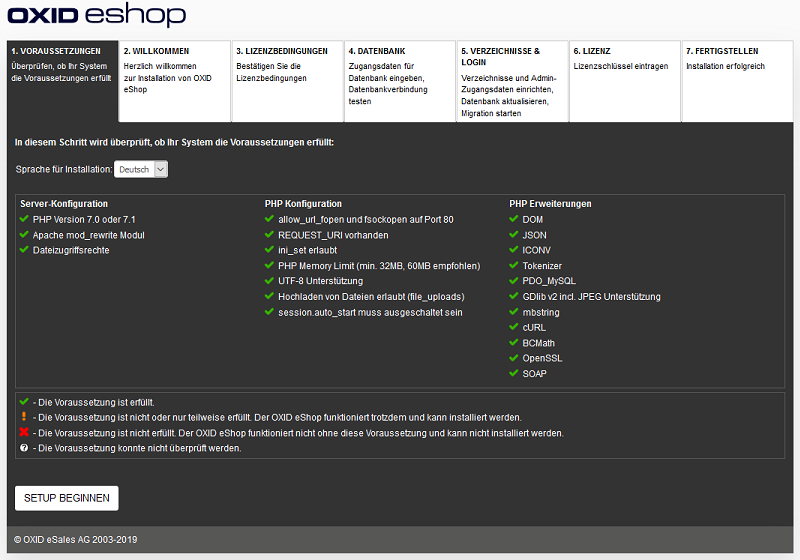
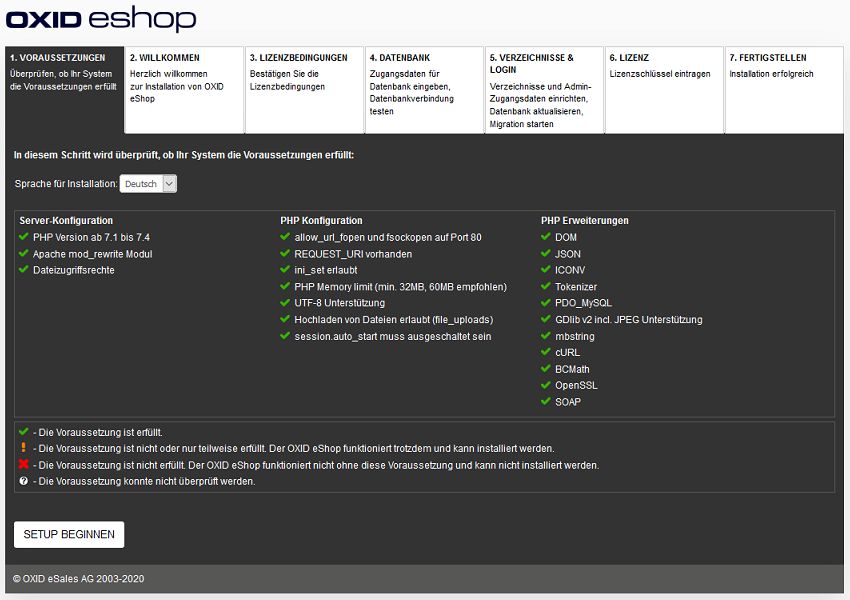
Updated screenshot from setup

Changed region(s): [[0.0, 0.0, 1.0, 1.0], [0.9688, 0.7893, 1.0, 0.85], [0.9688, 0.6982, 1.0, 0.7286]]

diff --git a/installation/neu-installation/neu-installation.rst b/installation/neu-installation/neu-installation.rst
@@ -6,7 +6,7 @@ In diesem Abschnitt erfahren Sie, wie Sie den OXID eShop 6.2 neu installieren. D
 .. image:: ../../media/screenshots/oxbaae01.png
     :alt: Setup, Schritt 1
     :class: no-shadow
-    :height: 455
+    :height: 459
     :width: 650
 
 Eine englischsprachige Anleitung zur Installation finden Sie in der Entwicklerdokumentation: `<https://docs.oxid-esales.com/developer/en/6.2/getting_started/installation/index.html>`_.
